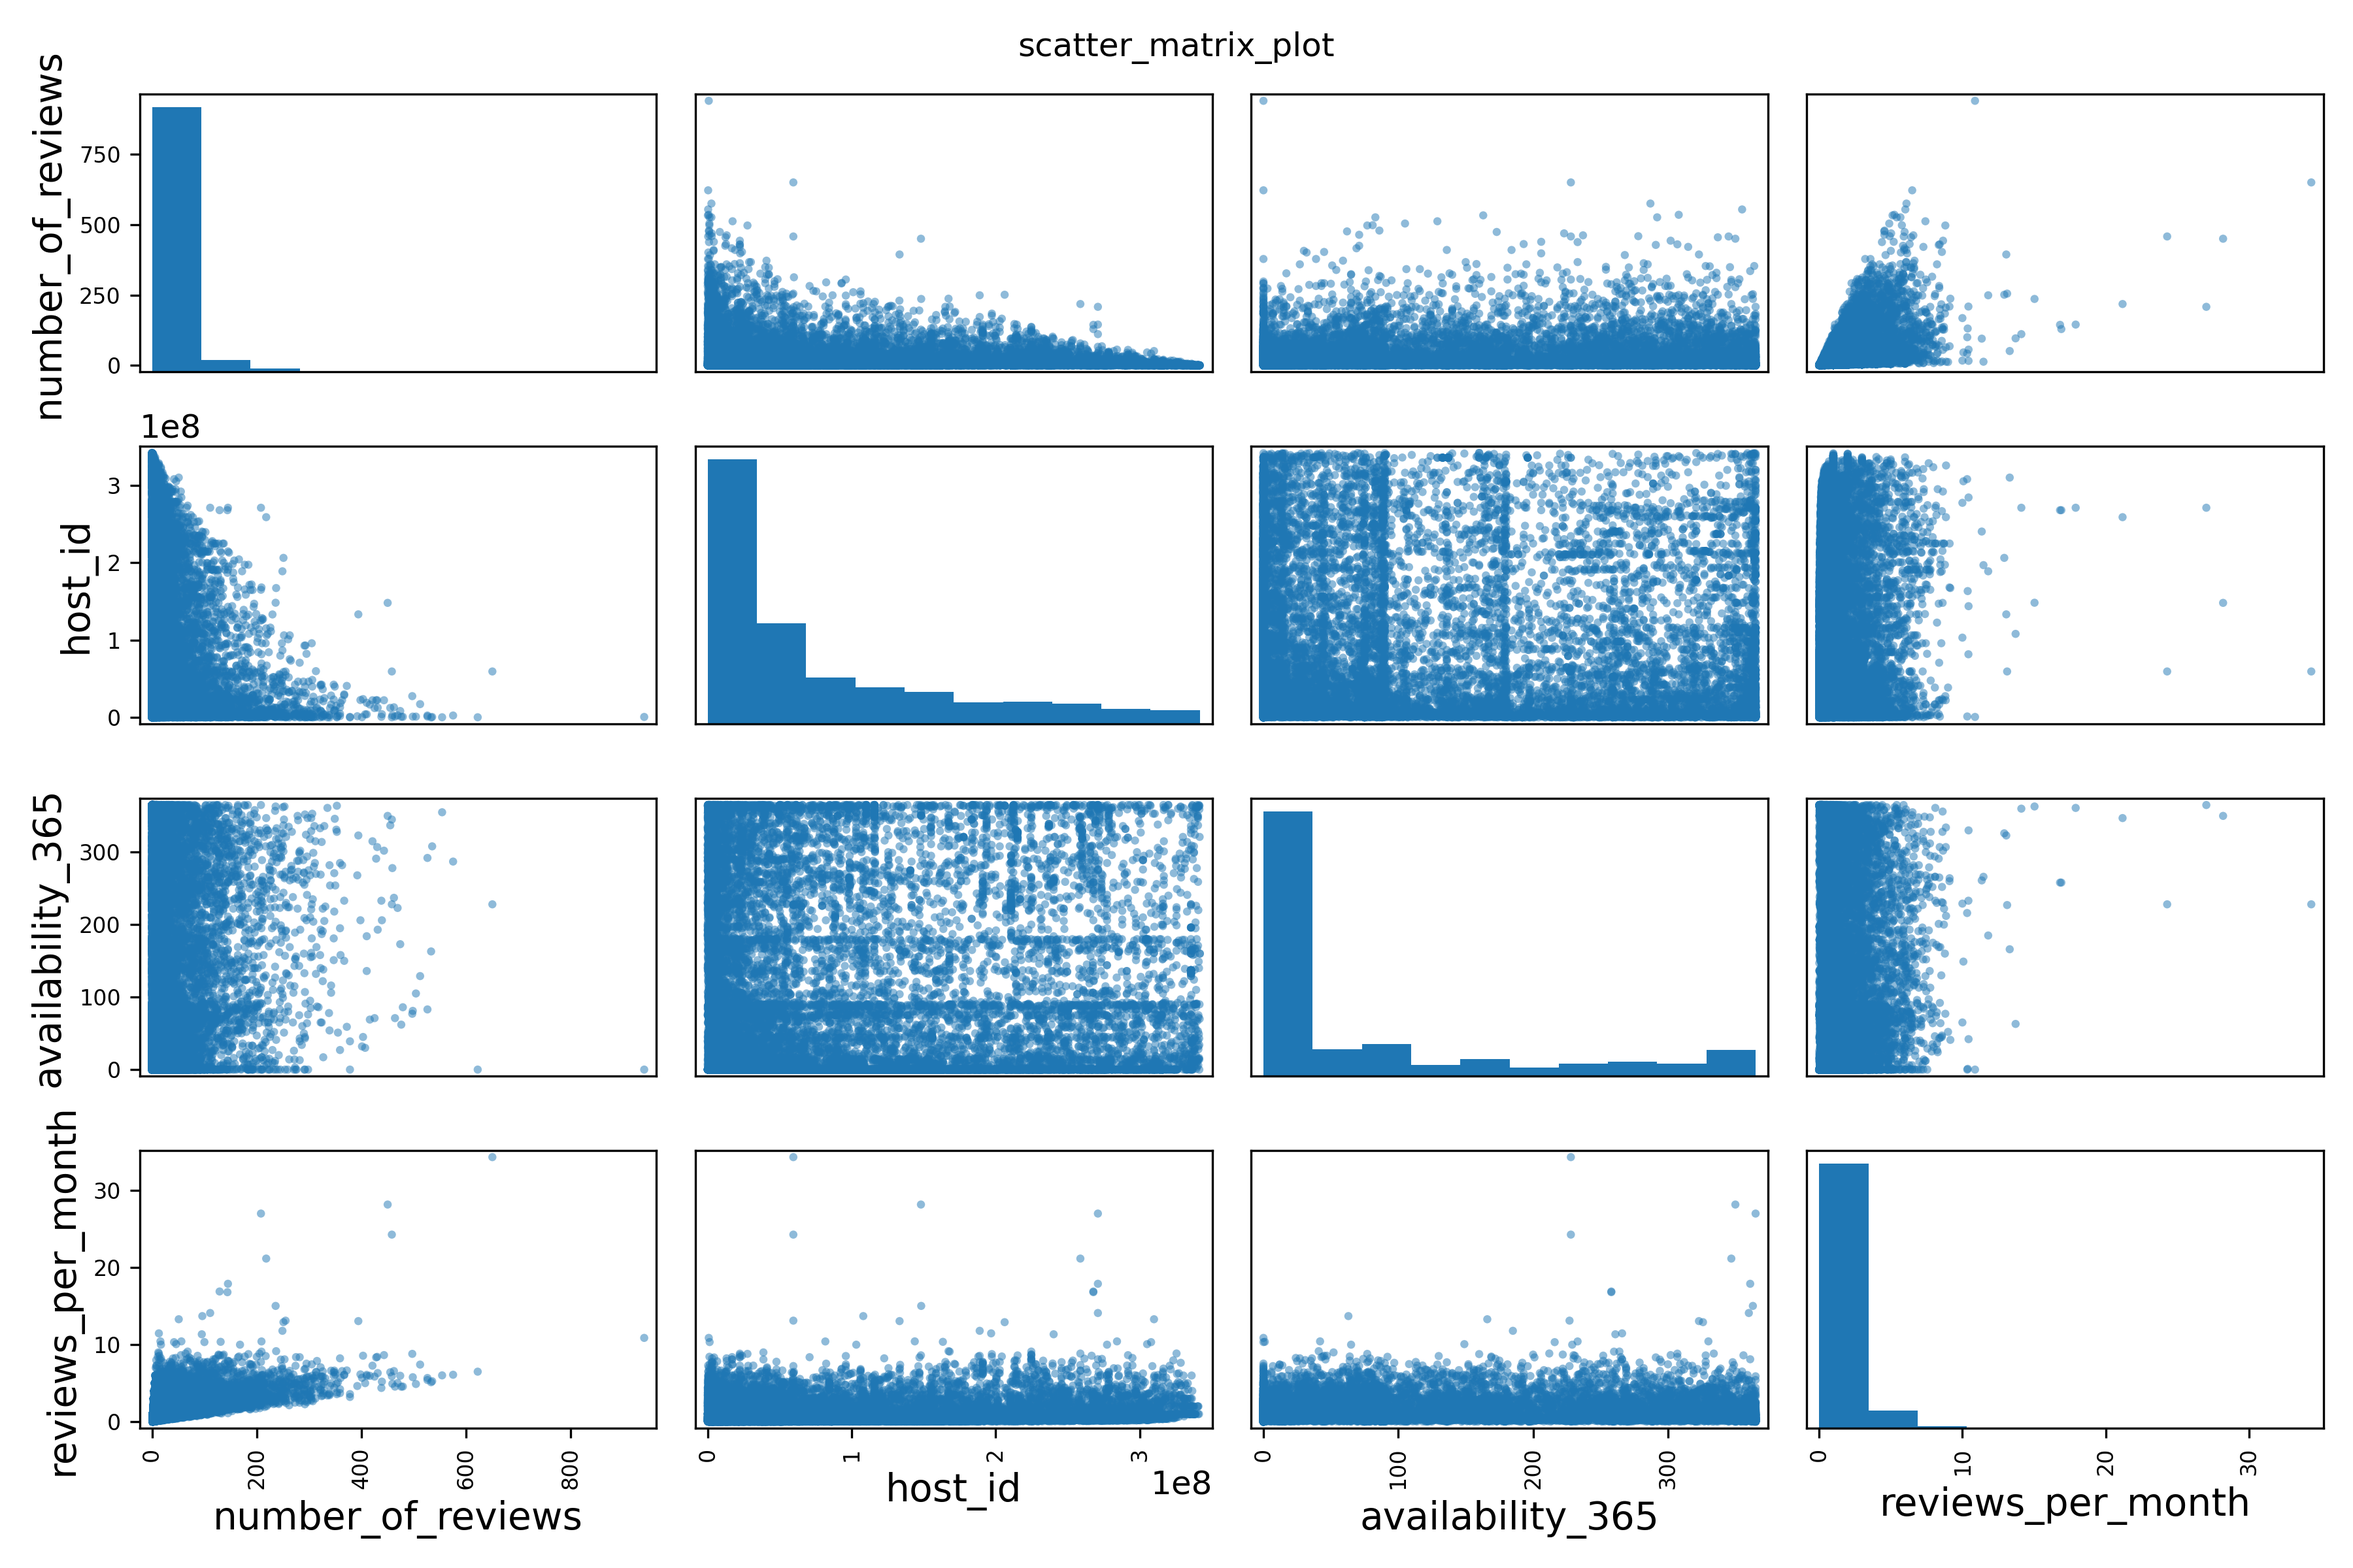
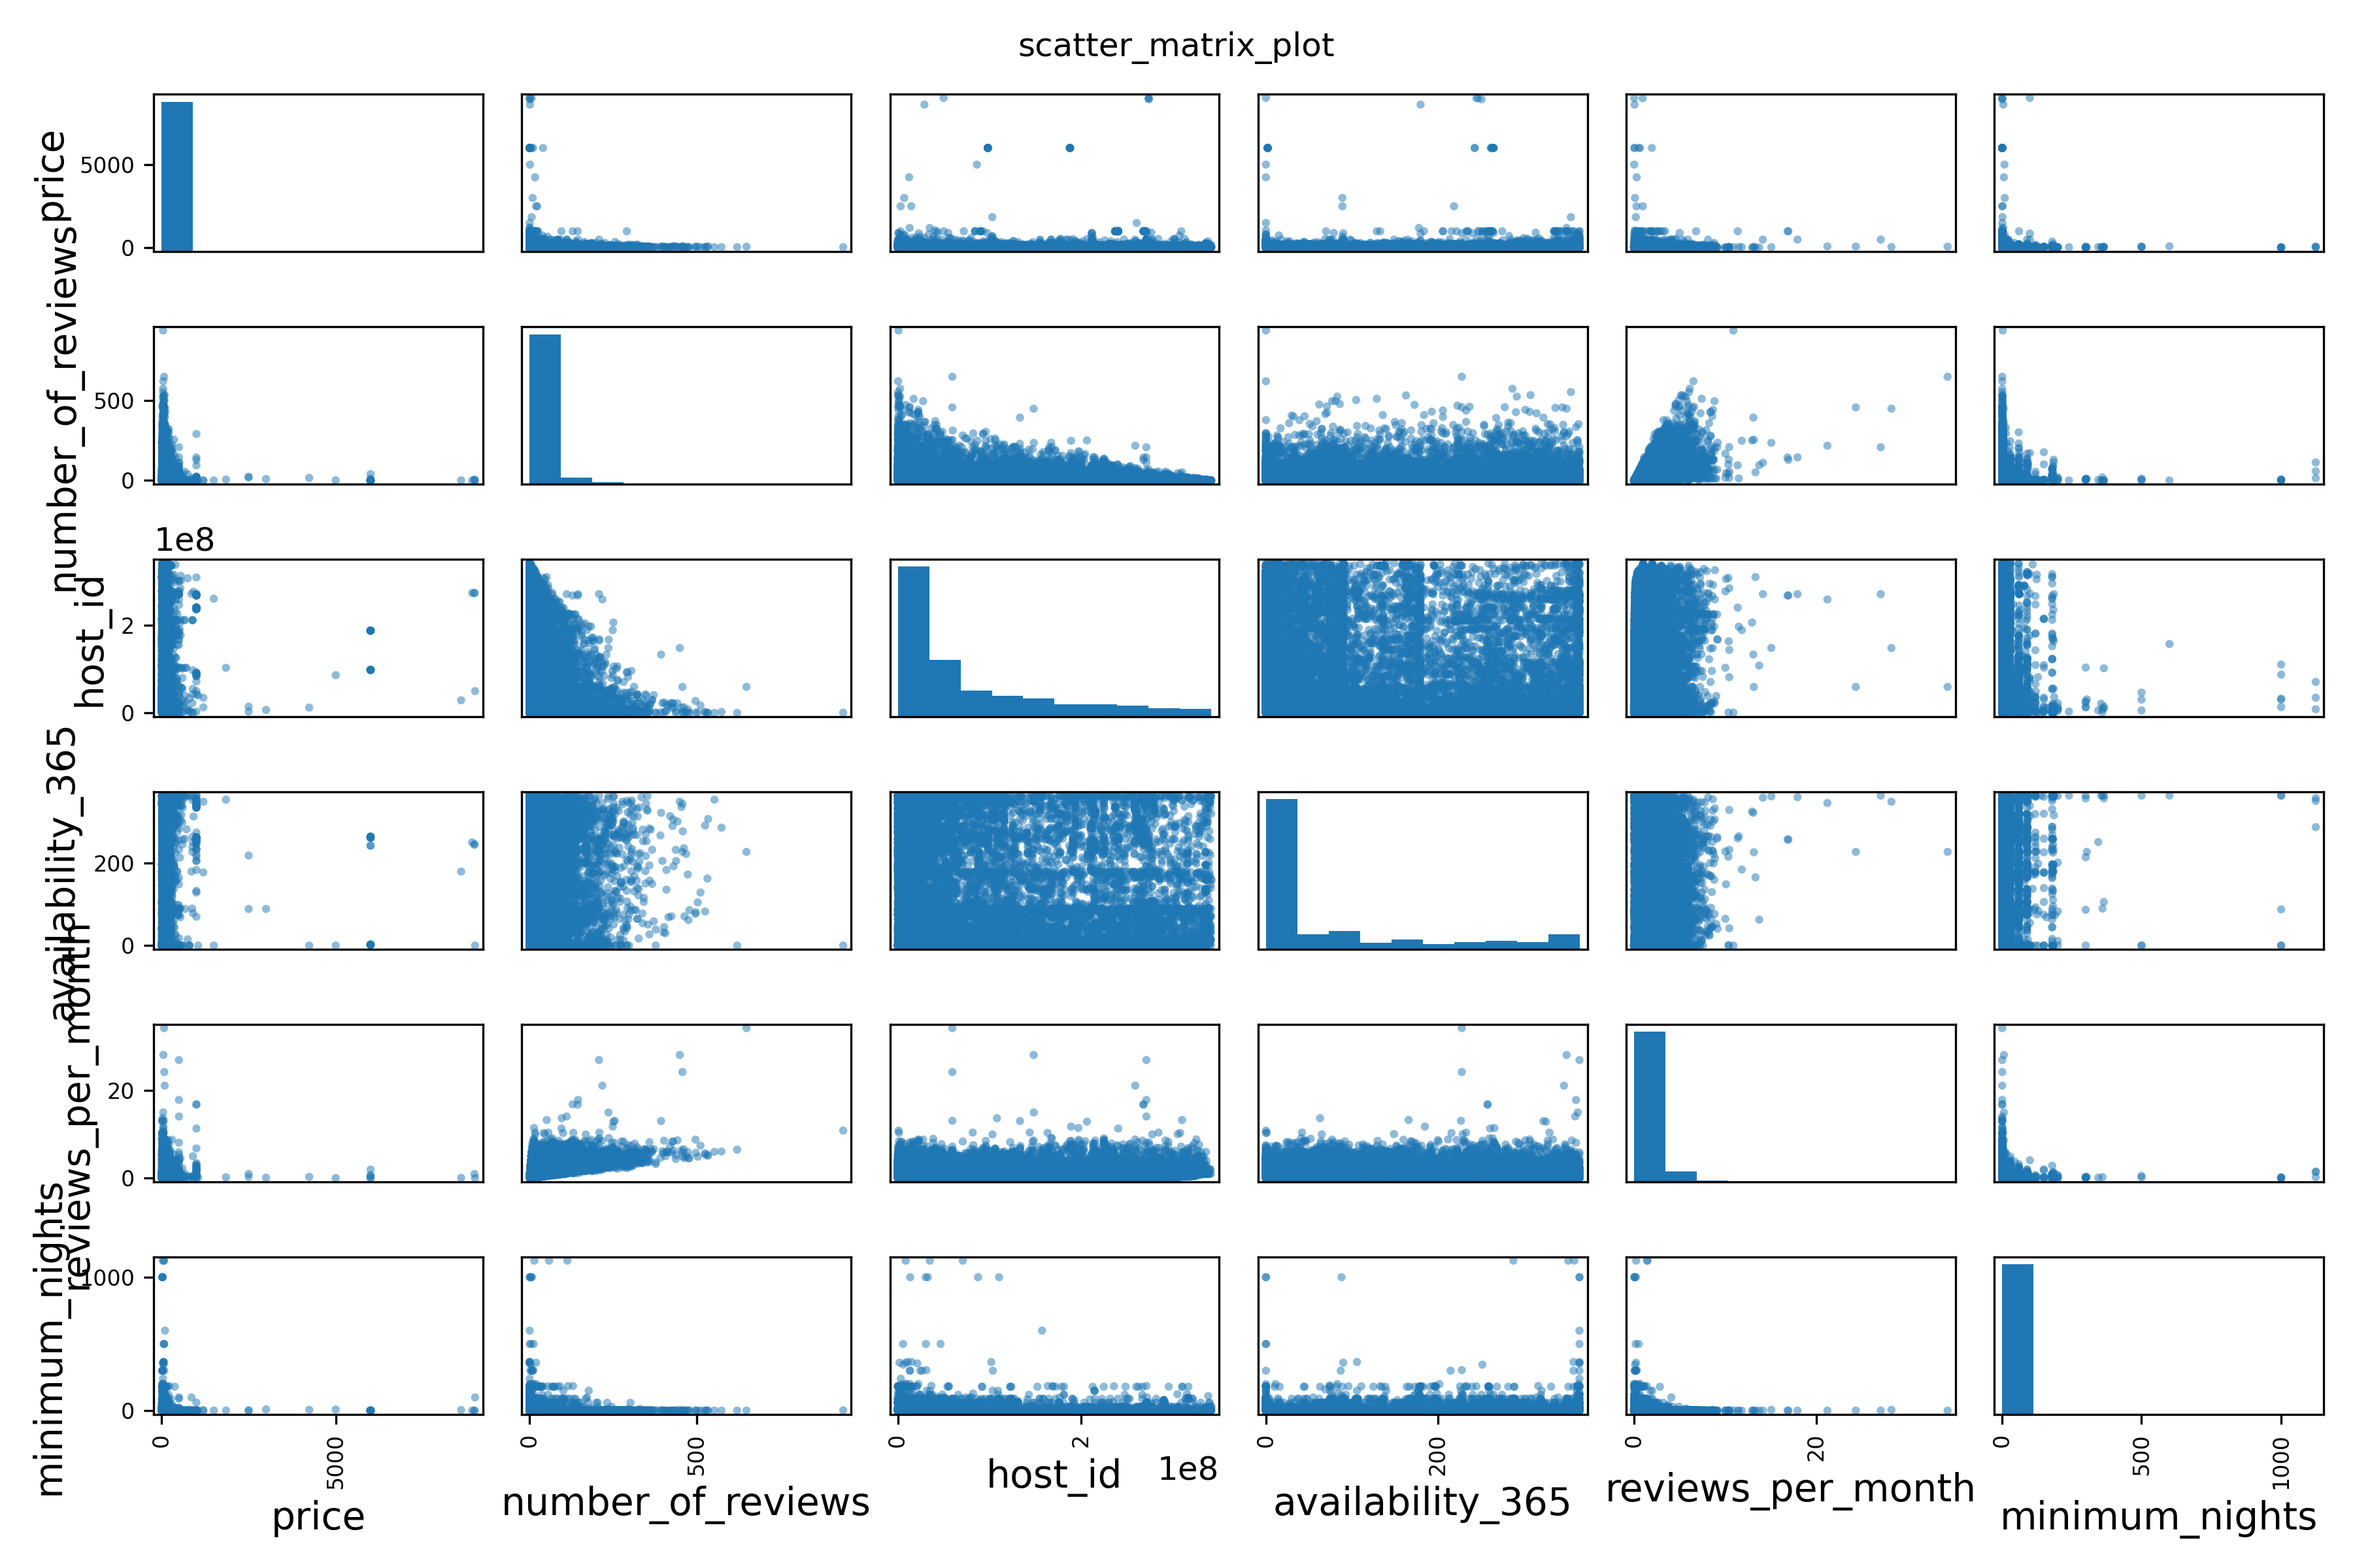
updates scatter plot for AirBnB

diff --git a/Sklearn Machine-Learning_AirBnB.py b/Sklearn Machine-Learning_AirBnB.py
@@ -200,16 +200,19 @@ for set_ in (strat_train_set, strat_test_set):
 print("\n\n2. Discover and visualize the data to gain insights \n")
 
 # myDataset = strat_train_set.copy()
-myDataset.plot(kind="scatter", x="longitude", y="latitude", title="bad_visualization_plot")
+myDataset.plot(kind="scatter", x="longitude", y="latitude", 
+               title="bad_visualization_plot")
 save_fig("bad_visualization_plot")
 
-attributes = ["number_of_reviews", "host_id", "availability_365", "reviews_per_month"]
+attributes = ["price", "number_of_reviews", "host_id", "availability_365", 
+              "reviews_per_month", "minimum_nights"]
 scatter_matrix(myDataset[attributes], figsize=(12, 8))
 plt.suptitle("scatter_matrix_plot")
 save_fig("scatter_matrix_plot")
-
+#%%
+# myDataset = myDataset[(myDataset['longitude']>=13.32) & (myDataset['longitude']<=13.35)]
 myDataset.plot(kind="scatter", x="longitude", y="latitude", alpha=0.4,
-    s=myDataset["price"]/100, label="price", figsize=(10,7),
+    s=myDataset['price']/100, label="price", figsize=(10,7),
     c="price", cmap=plt.get_cmap("jet"), colorbar=True,
     sharex=False, title="prices_scatterplot")
 plt.legend()
